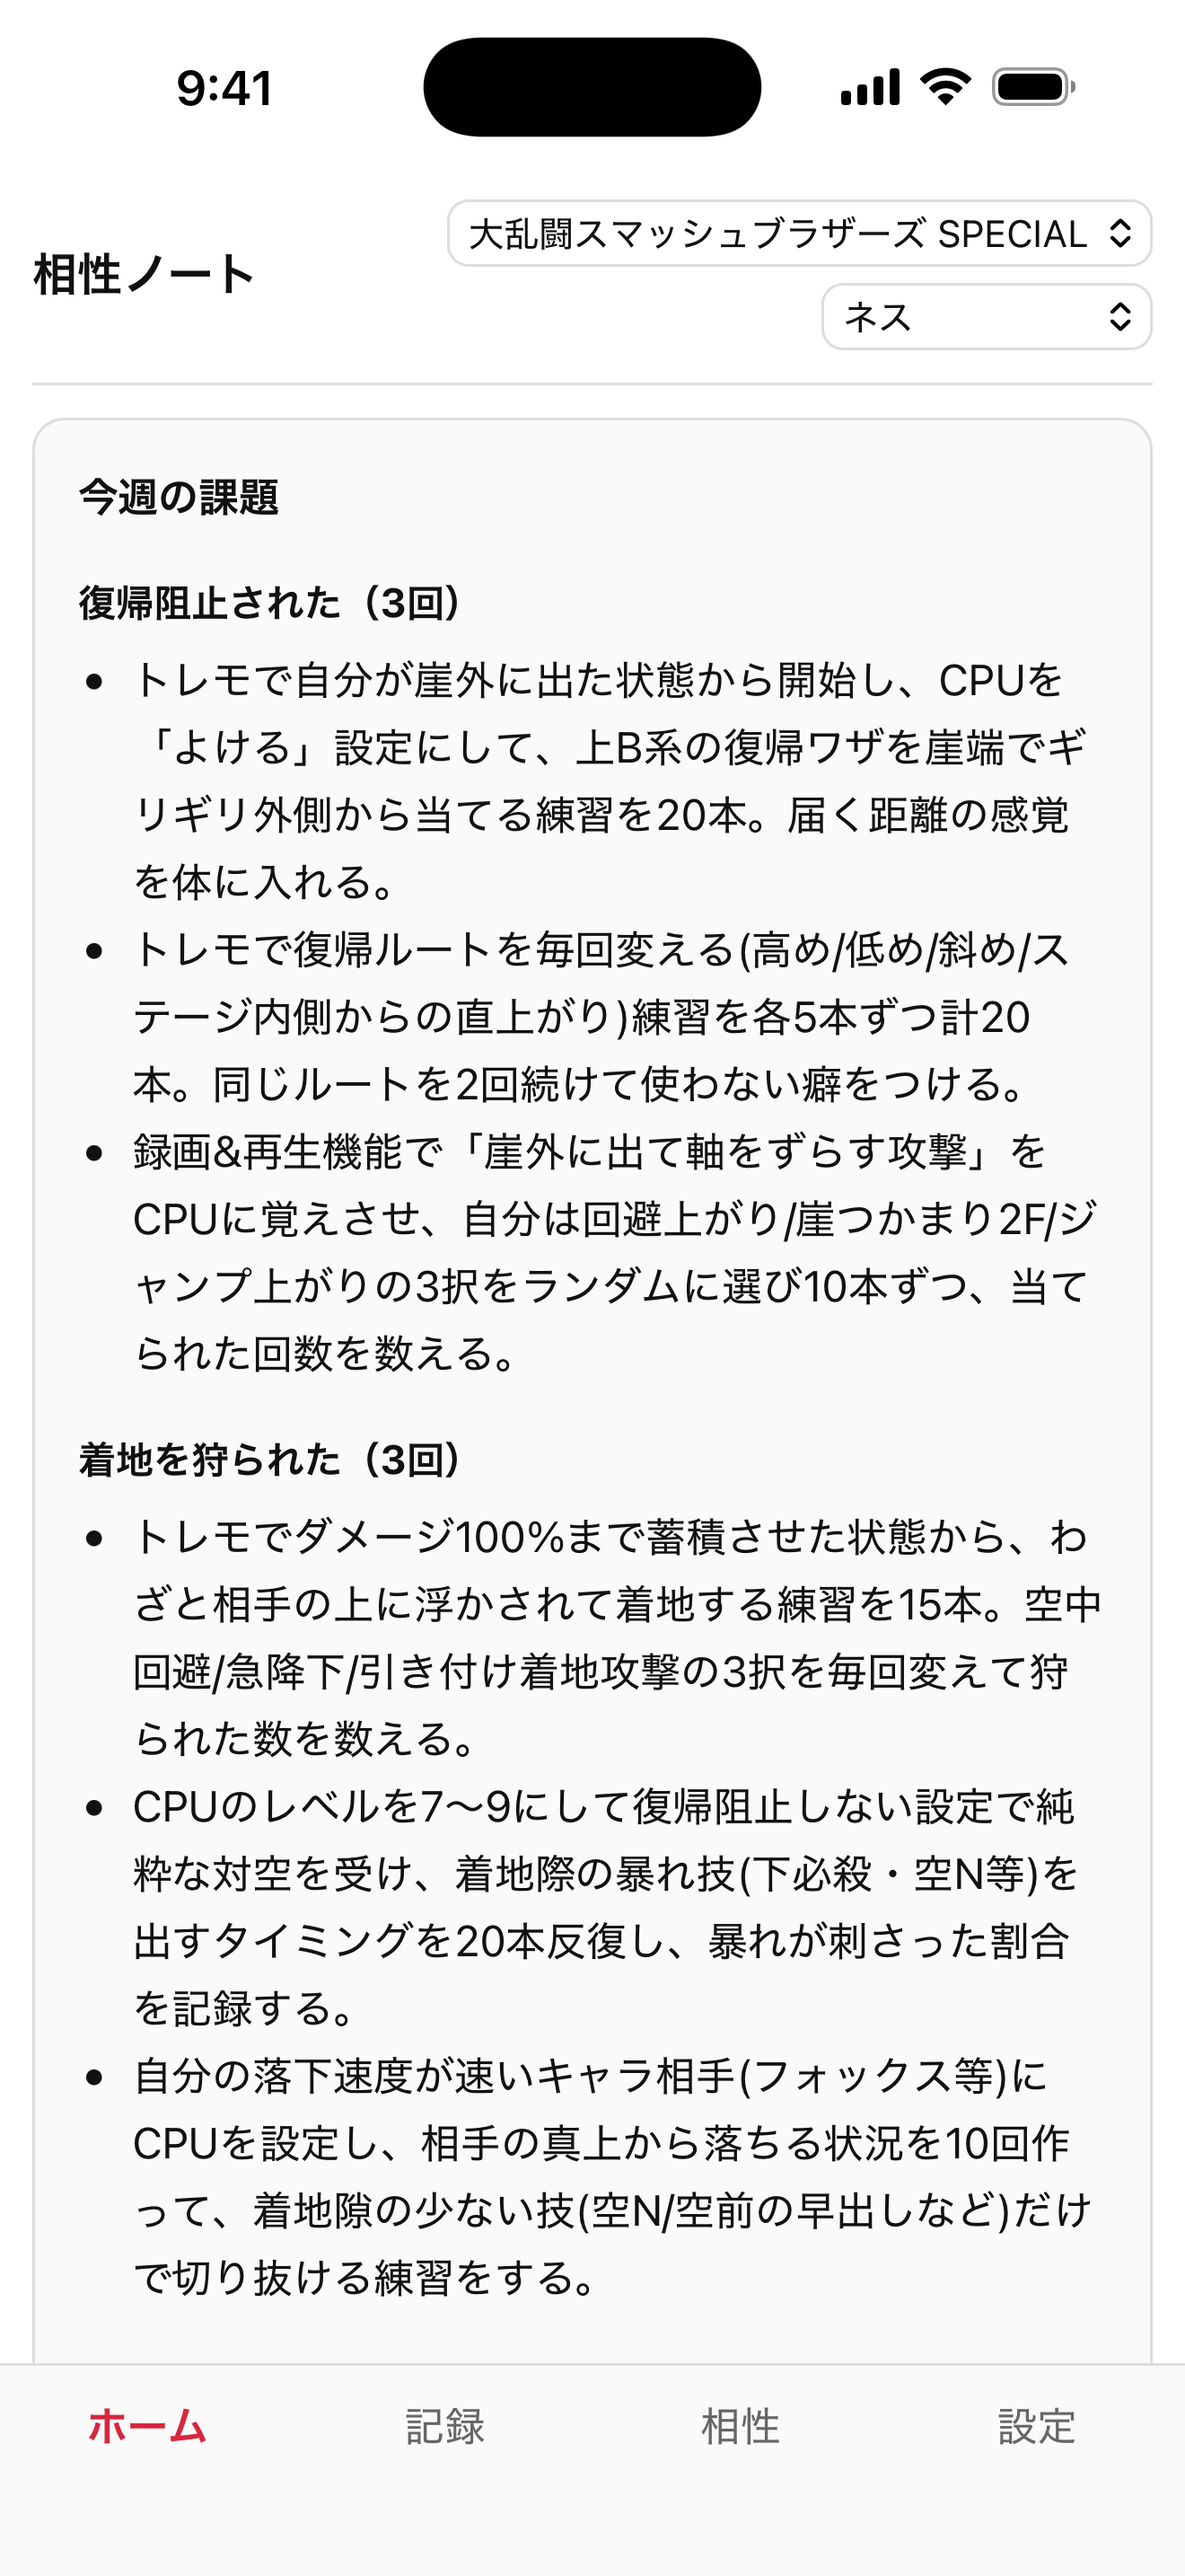
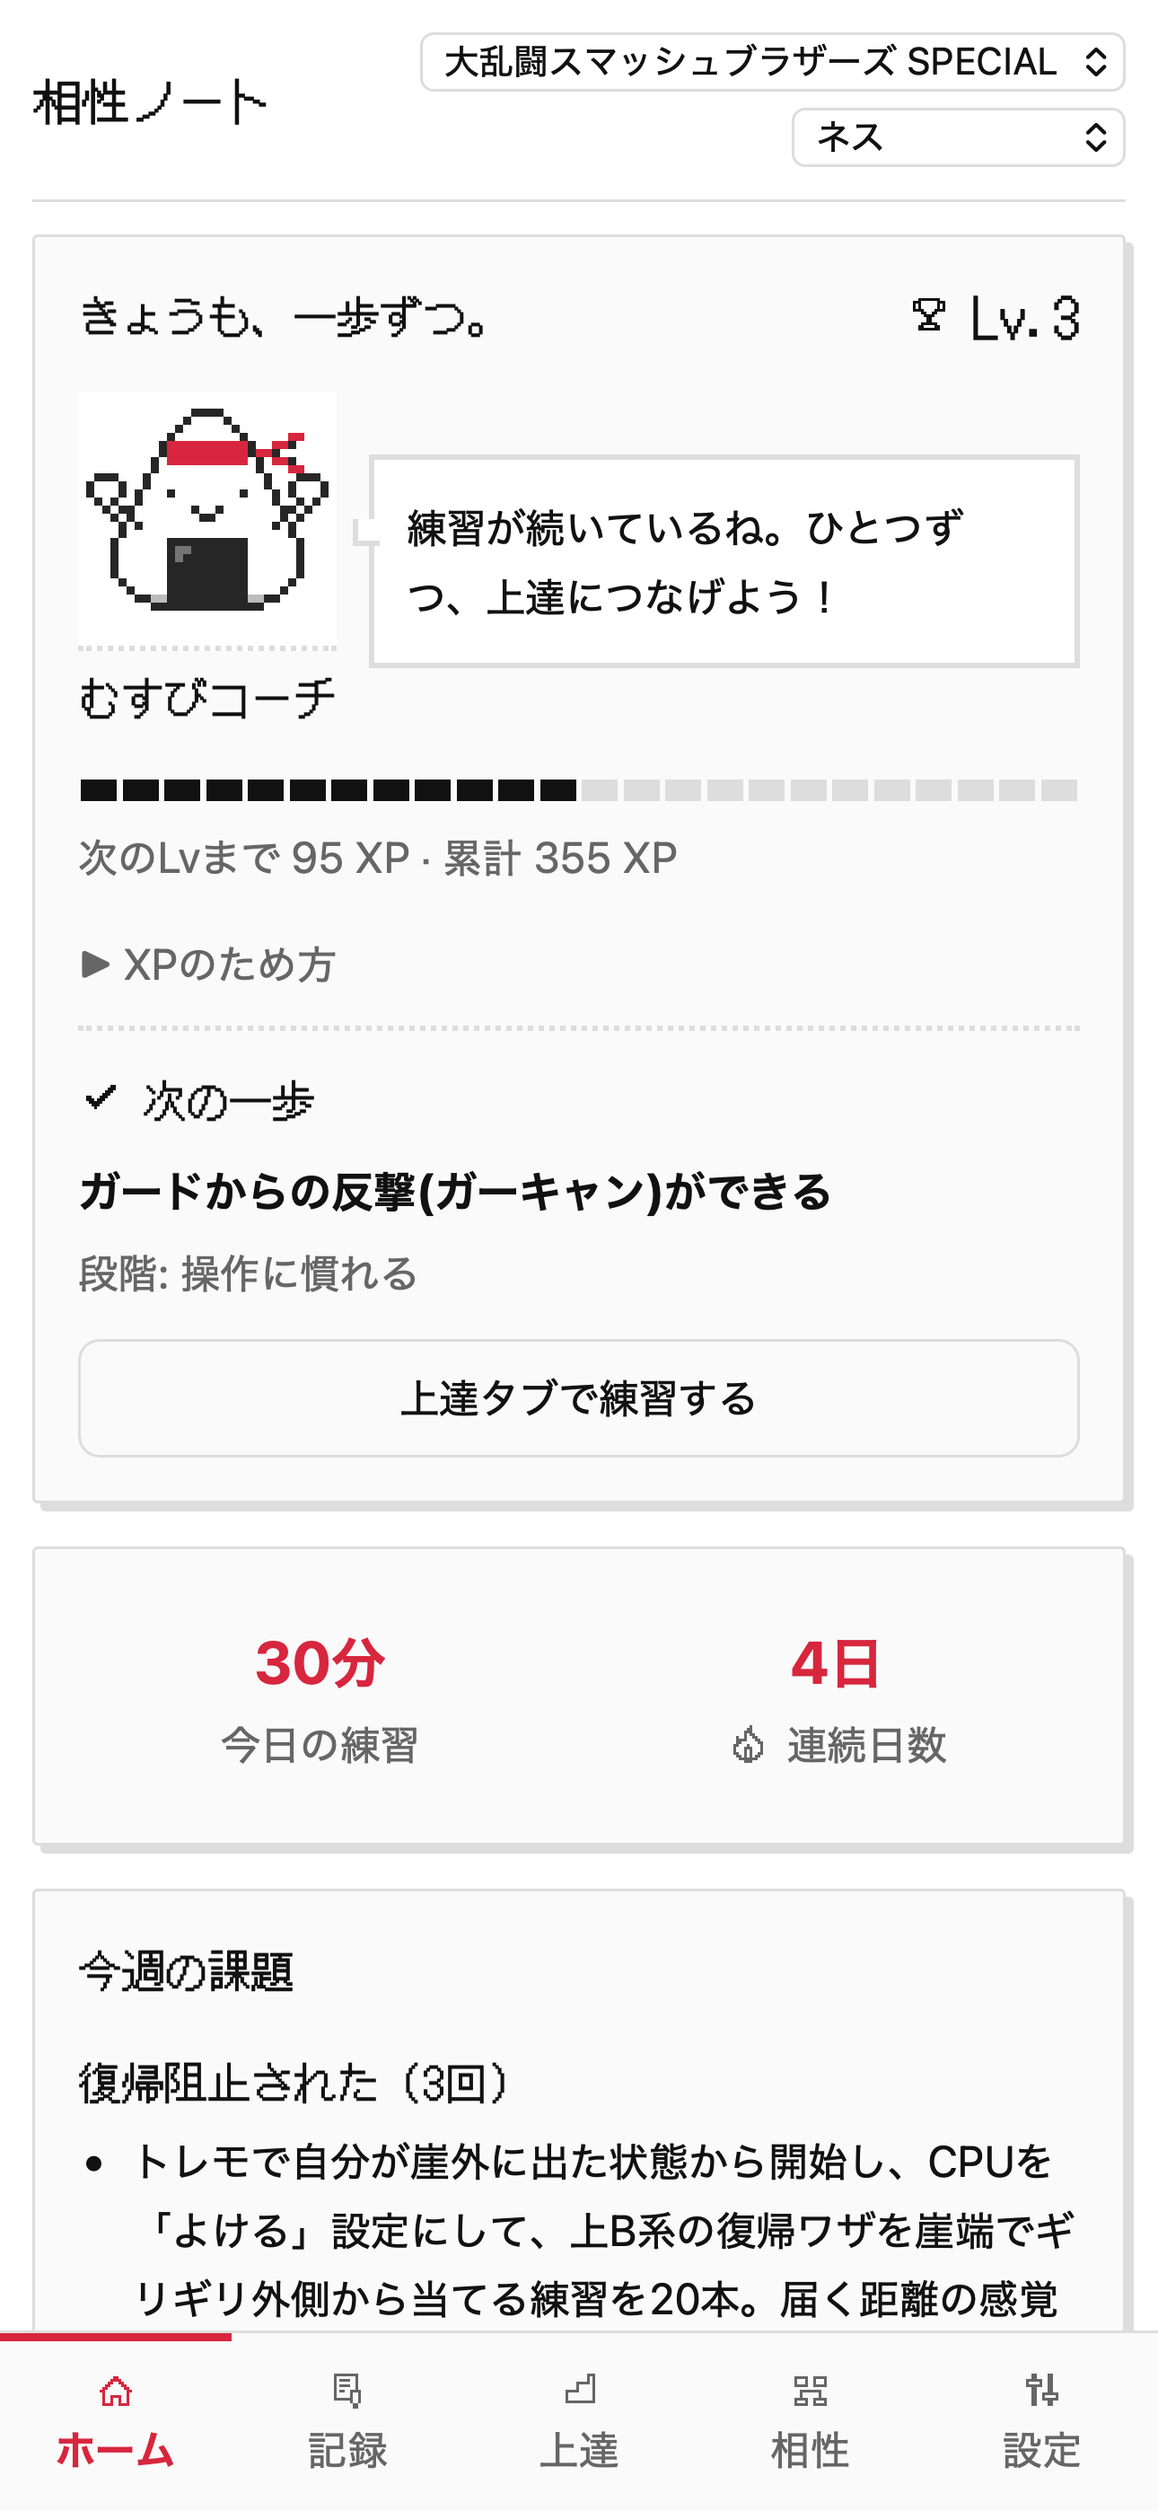
iOS build 4: 上達タブ・むすびコーチ/レベル・誕生日画面・?gift を同梱／App Store スクショを5枚に撮り直し（ホーム・上達・記録・相性・キャラ専用メニュー）

diff --git a/store/shot.py b/store/shot.py
@@ -1,7 +1,7 @@
-# 相性ノートの画面確認用スクリーンショット（Playwright WebKit・1290x2796）。
-# App Store に出す画像は store/sim_shot.py（iOSシミュレータの実機描画・ステータスバー付き）で撮る。これはその下見と
-# Web版の確認用で、出力は build/web-shots/（コミットしない）。シードデータ build_state() は sim_shot.py も使う。
-# 使い方: python3 store/shot.py  （リポジトリ直下を自前の一時HTTPサーバーで配信して撮る）
+# 相性ノートのスクリーンショット（Playwright WebKit・1290x2796）。シードデータ build_state() は sim_shot.py も使う。
+# 使い方: python3 store/shot.py  （リポジトリ直下を自前の一時HTTPサーバーで配信して撮る。出力は build/web-shots/・コミットしない）
+#         python3 store/shot.py --out store/screenshots  （build 4 以降の App Store 用5枚。ステータスバーは無い）
+# 注: store/sim_shot.py は build 3 までの4枚構成（上達タブ・むすびコーチ以前）のまま。使うなら撮る画面を合わせてから。
 # iPhone相当の 430x932 CSS px を 3倍で撮る＝1290x2796。レンダラは iOS と同系の WebKit。
 # ビューポート撮影（fullPage ではない）。固定の下タブがカードを中途半端に切らないよう各画面でスクロール位置を調整する。
 # App Store 用は iOS アプリの見た目で撮るため window.Capacitor.isNativePlatform() を true にする（相性の目安はリンク案内になる）。
@@ -83,6 +83,9 @@ def build_state():
         f"{GAME}__{ACTIVE}__フォックス": {"mark": "good", "memo": ""},
         f"{GAME}__{ACTIVE}__勇者": {"mark": "bad", "memo": ""},
     }
+    # 上達タブ用: 操作に慣れる5項目＋ネス専用2項目にチェック、直近4日の練習（今日を含む）→ Lv.3 前後になる。
+    progress = ["op-short-hop", "op-shff", "op-fast-fall", "op-di", "op-ledge-options", "ness-forward-air", "ness-pk-fire"]
+    practice_log = {(today - timedelta(days=i)).isoformat(): m for i, m in enumerate([30, 10, 30, 20])}
     return {
         "version": 2,
         "games": {
@@ -98,6 +101,8 @@ def build_state():
         "activeFighterByGame": {GAME: ACTIVE},
         "matches": matches,
         "matchups": matchups,
+        "progress": progress,
+        "practiceLog": practice_log,
     }
 
 
@@ -128,6 +133,17 @@ def scroll_bottom_to(page, selector, gap=16):
           const node = document.querySelector(sel);
           const navTop = document.querySelector('nav.bottom-nav').getBoundingClientRect().top;
           window.scrollTo(0, window.scrollY + node.getBoundingClientRect().bottom - (navTop - gap));
+        }""",
+        [selector, gap],
+    )
+
+
+def scroll_top_to(page, selector, gap=12):
+    """selector の要素の上端が画面上端から gap px 下に来るようスクロールする。"""
+    page.evaluate(
+        """([sel, gap]) => {
+          const node = document.querySelector(sel);
+          window.scrollTo(0, window.scrollY + node.getBoundingClientRect().top - gap);
         }""",
         [selector, gap],
     )
@@ -164,7 +180,11 @@ def shot(page, name):
 def main():
     ap = argparse.ArgumentParser()
     ap.add_argument("--web-matchup", help="Web版（注入なし）の相性タブだけをこのパスに撮る")
+    ap.add_argument("--out", help="iOS表示5枚の出力先（既定 build/web-shots/）")
     args = ap.parse_args()
+    global OUTDIR
+    if args.out:
+        OUTDIR = os.path.abspath(args.out)
 
     srv, url = start_server()
     out = []
@@ -181,11 +201,16 @@ def main():
             else:
                 page, errors = open_app(browser, url, native=True)
 
-                # 01 ホーム（ヘッダーから見える一番上の位置）
+                # 01 ホーム（むすびコーチとレベル。ヘッダーから見える一番上の位置）
                 page.evaluate("window.scrollTo(0, 0)")
                 out.append(shot(page, "01_home.png"))
 
-                # 02 記録（負け理由のタグが見える状態）
+                # 02 上達（今日の練習カードの頭から、その下のロードマップ4段階まで見せる）
+                click_tab(page, "上達")
+                scroll_top_to(page, ".card:has(.duration-buttons)", 12)
+                out.append(shot(page, "02_growth.png"))
+
+                # 03 記録（負け理由のタグが見える状態）
                 click_tab(page, "記録")
                 page.locator(".log-form select").nth(1).select_option("パックマン")
                 page.check("input[type=radio][value=lose]")
@@ -193,21 +218,18 @@ def main():
                 page.check("label.tag-checkbox:has-text('復帰阻止された') input")
                 page.check("label.tag-checkbox:has-text('飛び道具に触れない') input")
                 page.wait_for_timeout(200)
-                out.append(shot(page, "02_log.png"))
+                out.append(shot(page, "03_log.png"))
 
-                # 03 相性（出典へのリンク案内カード＋自分の相性表）
+                # 04 相性（出典へのリンク案内カード＋自分の相性表）
                 click_tab(page, "相性")
                 page.wait_for_selector("a.ref-link-btn")
                 assert page.locator(".ref-matchup-columns").count() == 0, "iOS表示で同梱データが出ている"
-                out.append(shot(page, "03_matchup.png"))
+                out.append(shot(page, "04_matchup.png"))
 
-                # 04 設定（データカード＋「このアプリについて」カード。about の下端を下タブの少し上に揃える）
-                click_tab(page, "設定")
-                scroll_bottom_to(page, ".about-card")
-                assert page.evaluate(
-                    "() => getComputedStyle(document.querySelector('.file-label input')).opacity"
-                ) == "0", "英語の Choose File が見えている"
-                out.append(shot(page, "04_settings.png"))
+                # 05 上達のキャラ専用メニュー（ネス）
+                click_tab(page, "上達")
+                scroll_top_to(page, ".character-menu", 12)
+                out.append(shot(page, "05_character.png"))
 
             browser.close()
             if errors:
